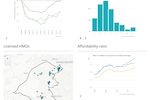
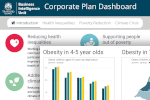
Update for the new corporate plan dashboard app.

diff --git a/index.html b/index.html
@@ -223,8 +223,8 @@
                         </div>
 
                         <div class="card labBorder">
-                            <a href="https://trafforddatalab.shinyapps.io/dashboard/" target="_blank"><h3 class="cardHead themeLink">Trafford corporate dashboard</h3><img src="images/corporate_dashboard_thumbnail.png" class="thumbnail" alt=""/></a><br class="hideContent"/>
-                            <span class="cardBody">Trafford Council has identified 7 strategic priorities in its <a href="https://www.trafford.gov.uk/about-your-council/strategies-plans-and-policies/Corporate-Plan.aspx" target="_blank">Corporate Plan</a> that it believes are key to enabling Trafford's residents, businesses and staff to thrive. This dashboard allows you to browse a range of indicators that relate to each of the strategic priorities.</span>
+                            <a href="https://trafforddatalab.shinyapps.io/corporate-plan/" target="_blank"><h3 class="cardHead themeLink">Corporate plan dashboard</h3><img src="images/corporate_dashboard_thumbnail.png" class="thumbnail" alt=""/></a><br class="hideContent"/>
+                            <span class="cardBody">The <a href="https://www.trafford.gov.uk/about-your-council/strategies-plans-and-policies/Corporate-Plan.aspx" target="_blank">corporate plan</a> describes Trafford Council's strategic vision, outcomes and priorities for the borough, with the priorities being key to its delivery. The dashboard interactively visualises data for a range of indicators that relate to each of the strategic priorities.</span>
                         </div>
                     </div>
                 </section>
